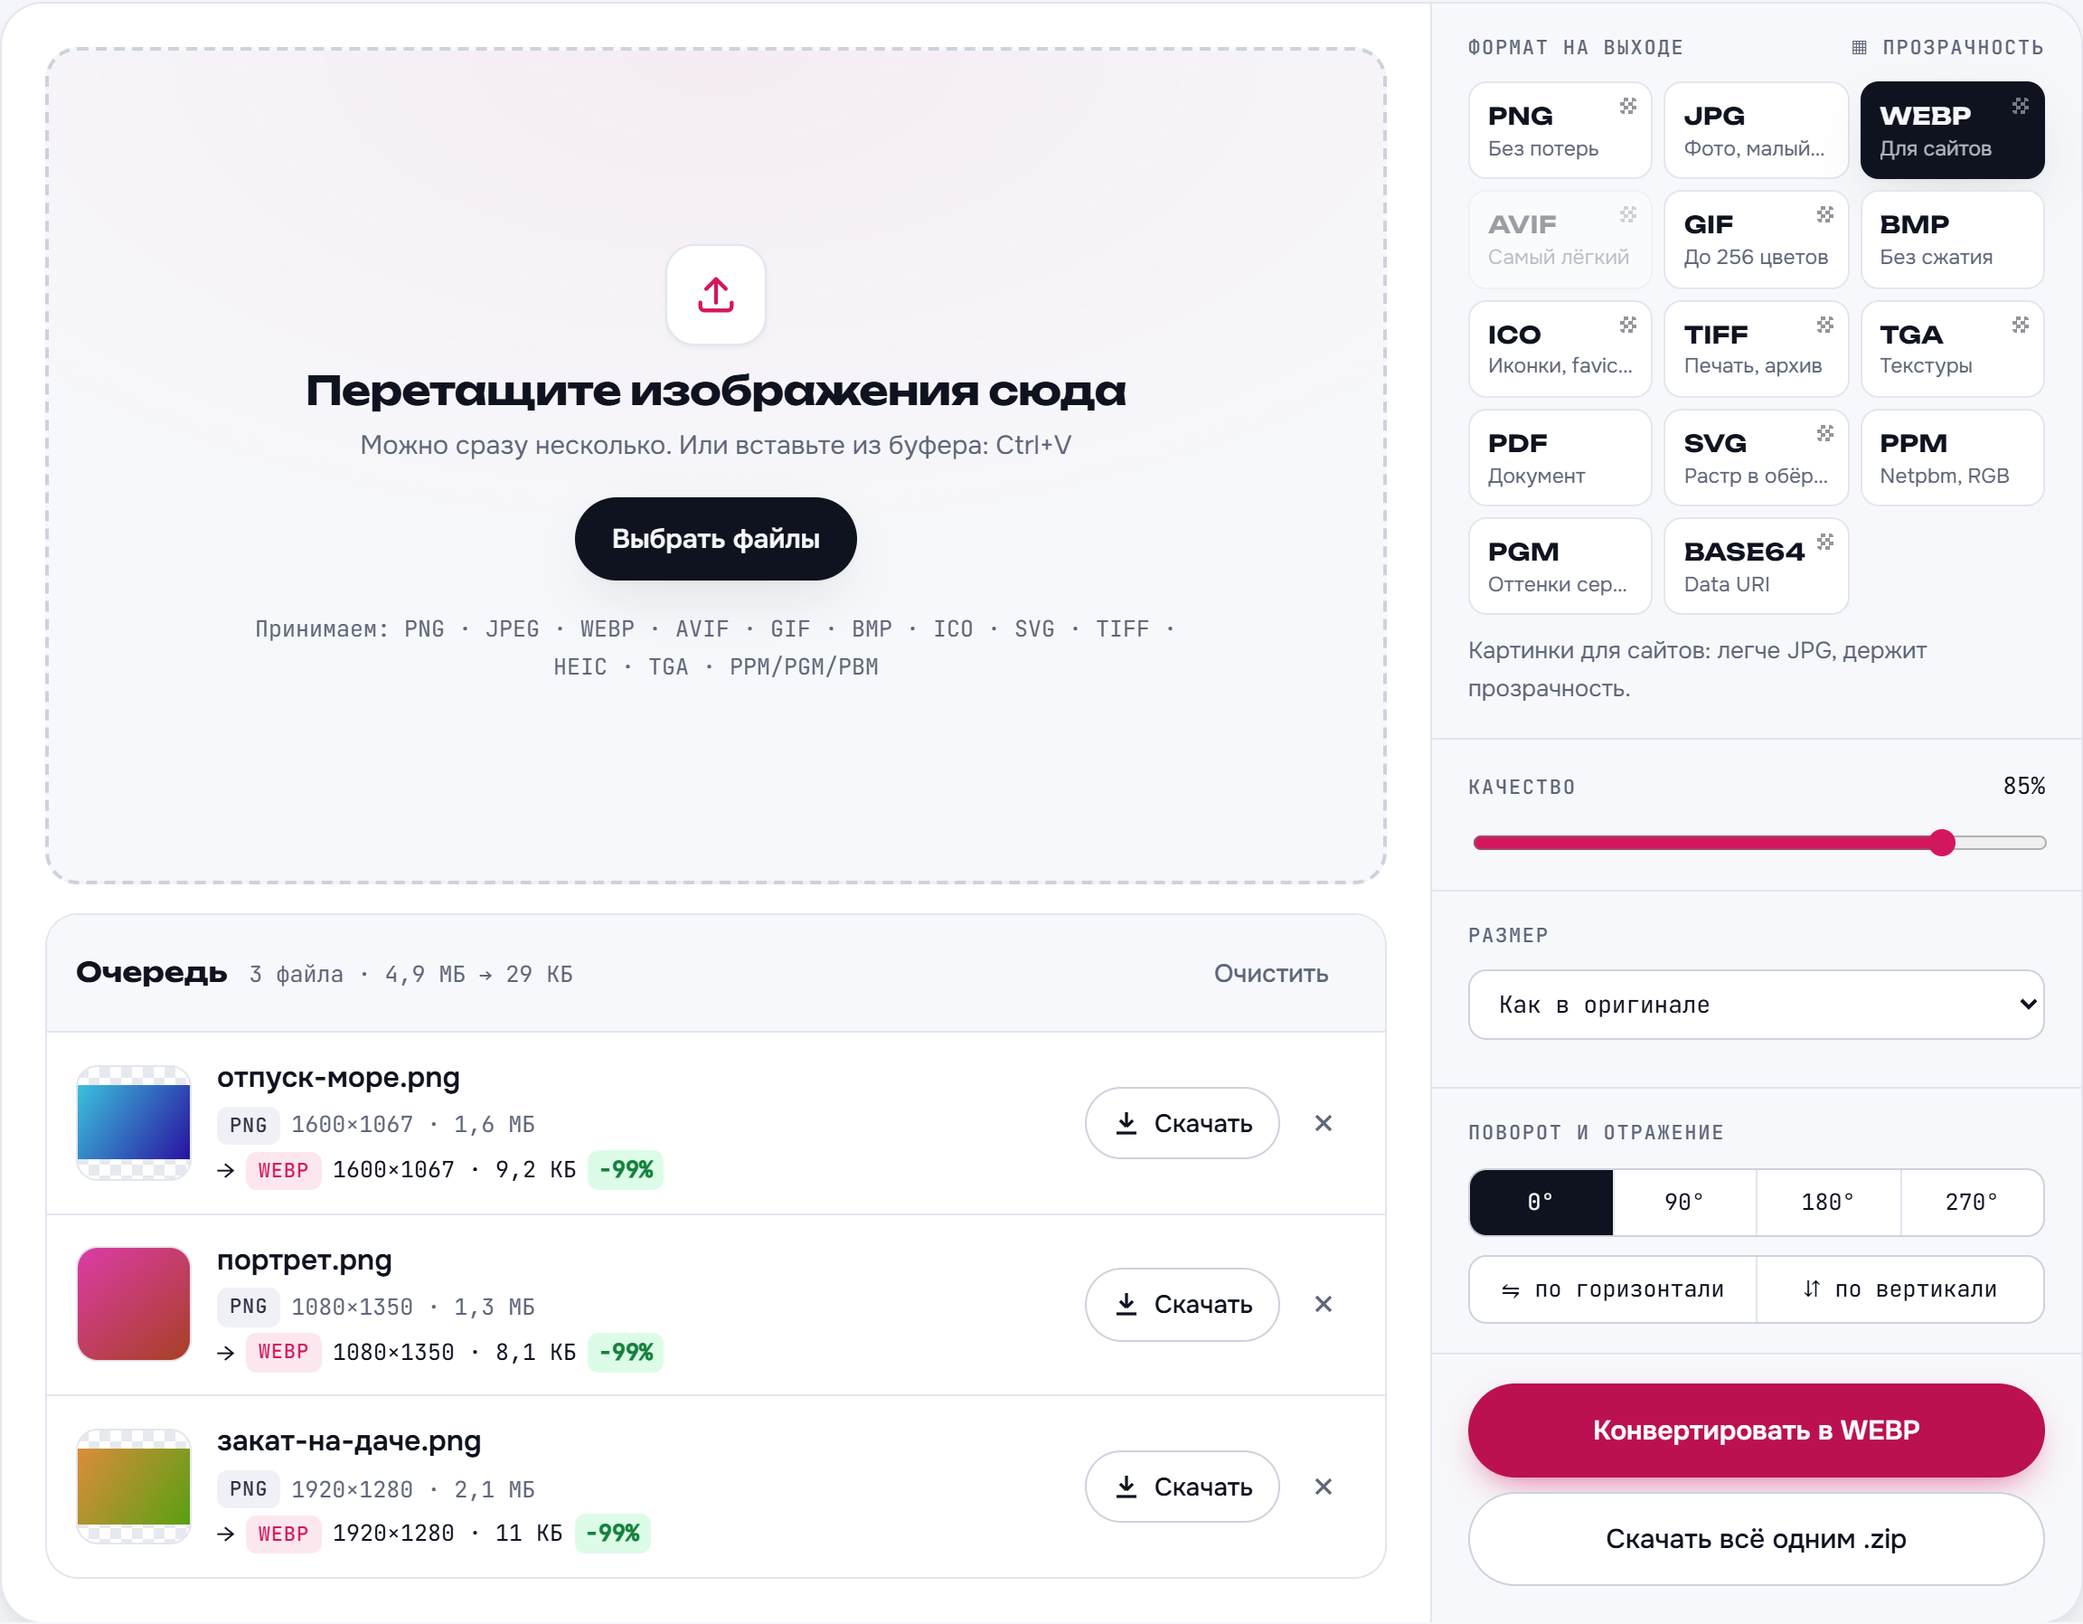
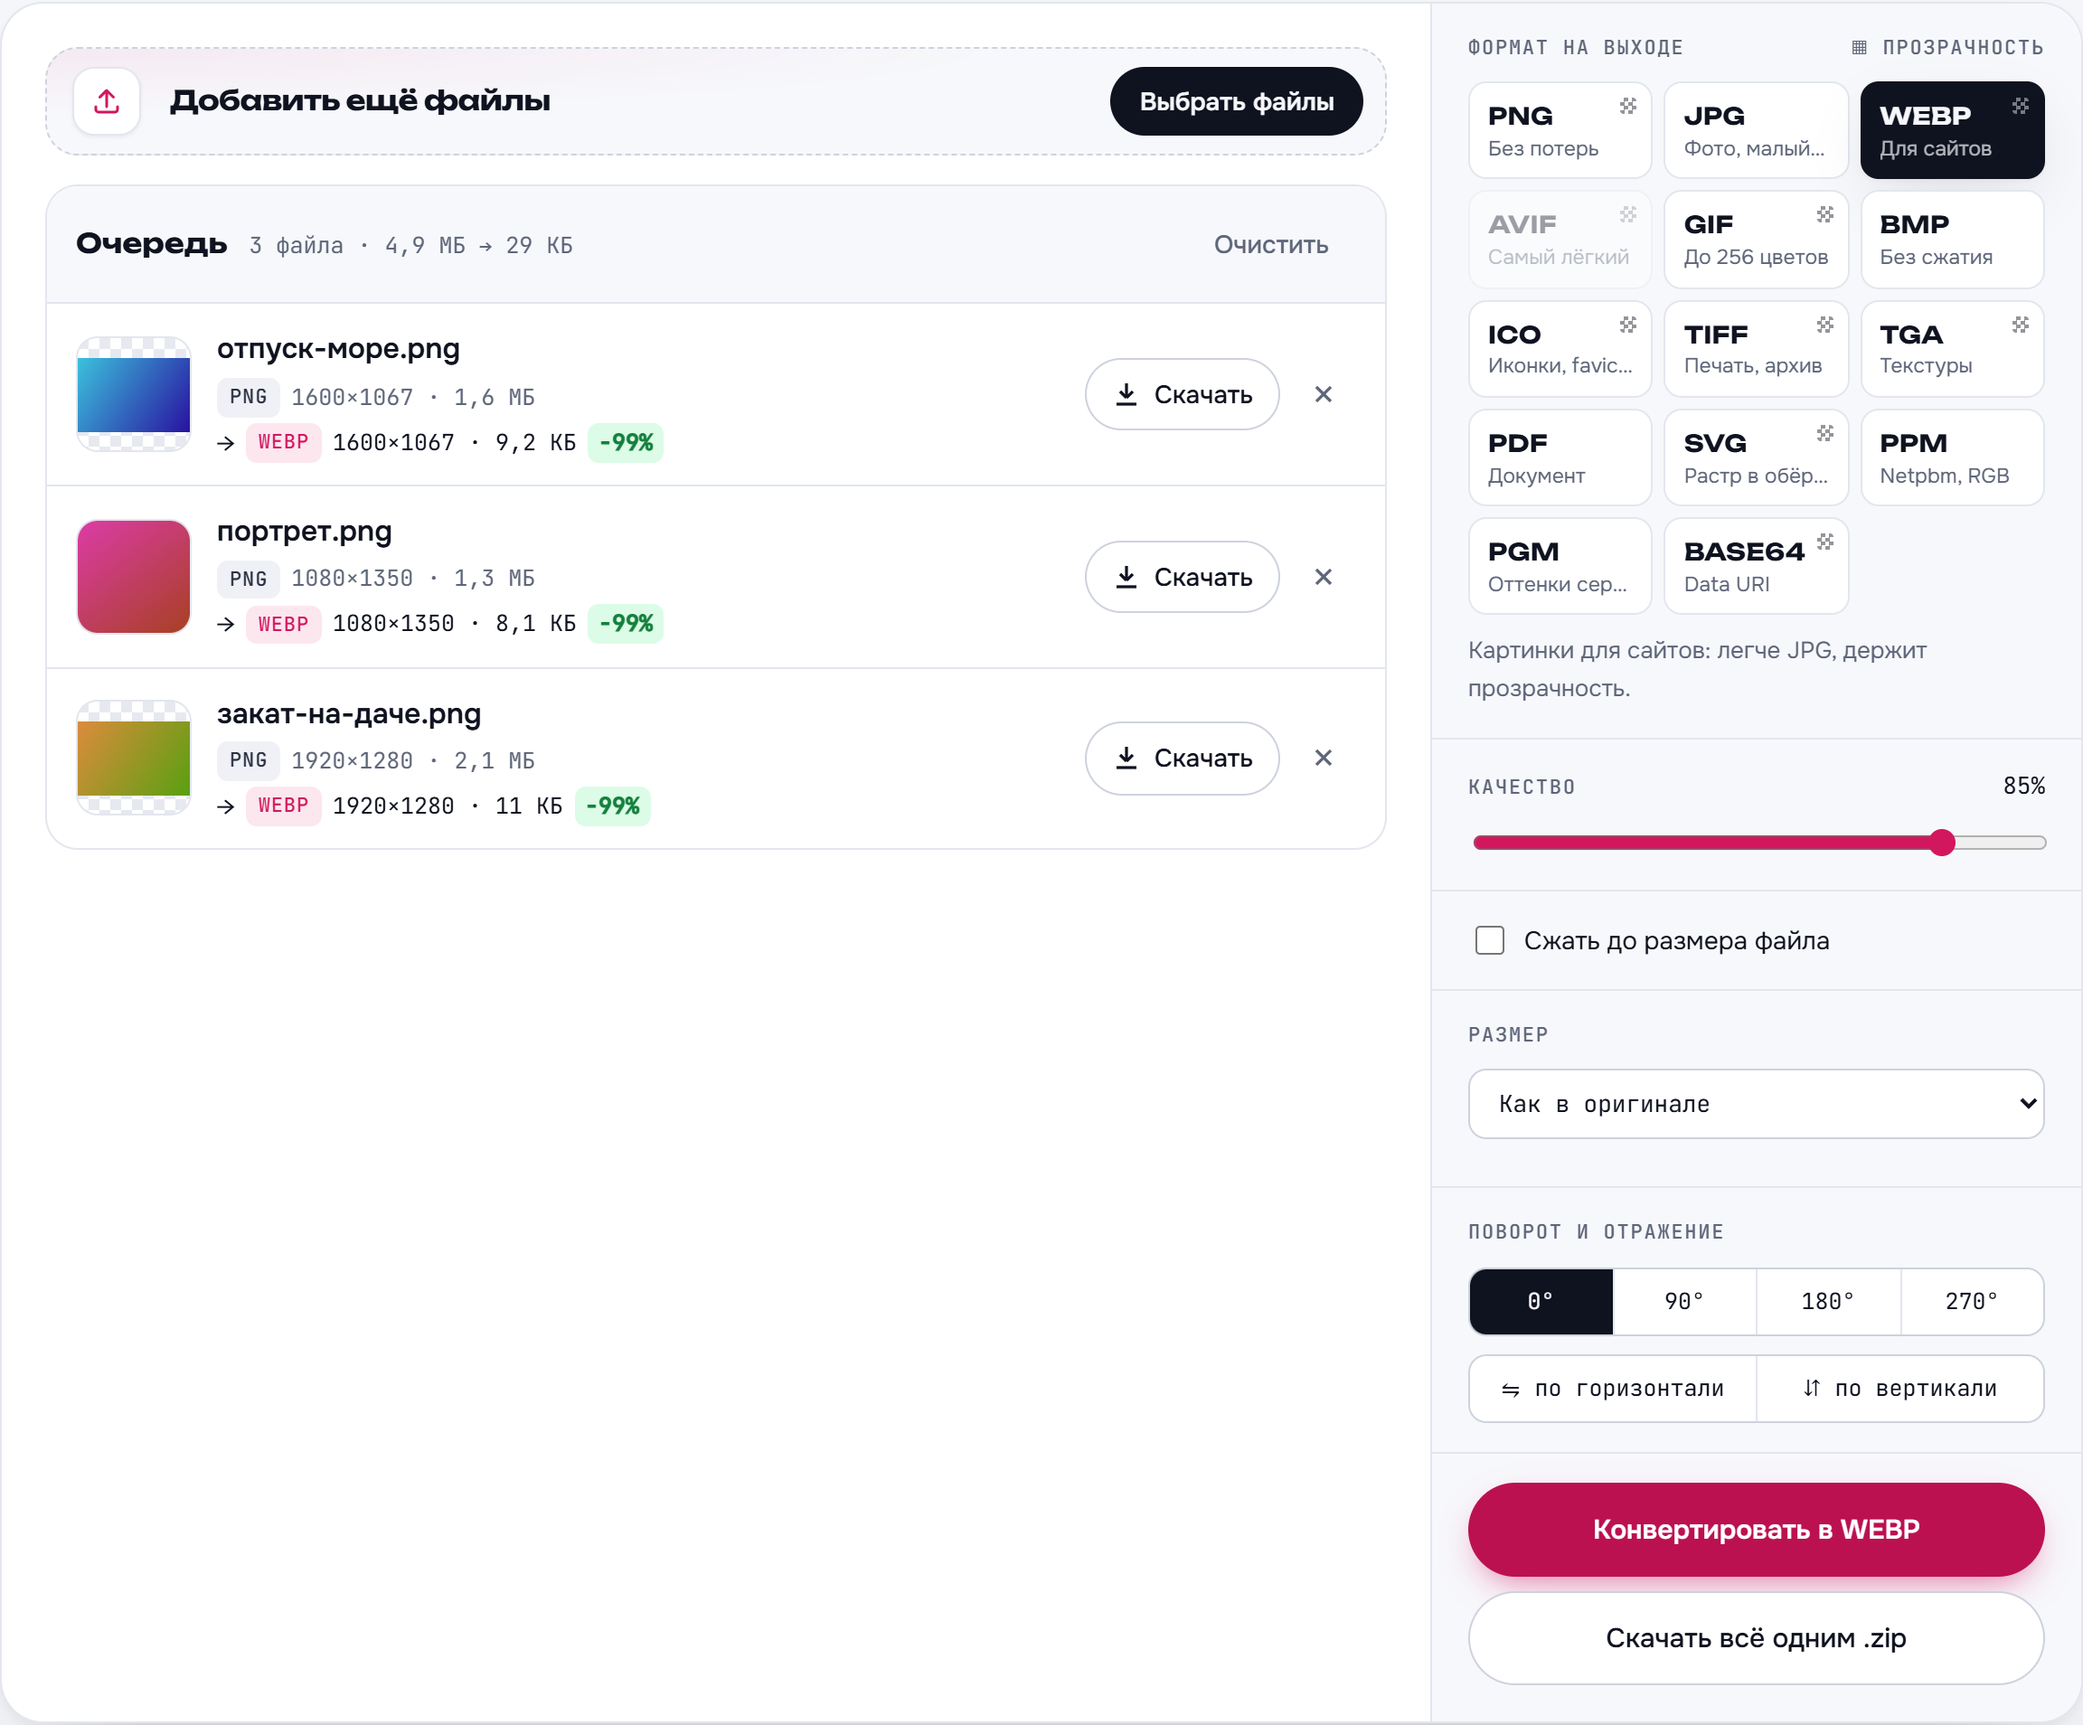
Компактная зона загрузки
- Зона «Перетащите изображения сюда» — горизонтальная строка (иконка,
  текст, кнопка) вместо блока на всю высоту колонки
- С файлами сворачивается в узкую строку «Добавить ещё файлы»,
  список форматов и подсказка скрываются
- Пока файлов нет, на широких экранах под зоной — подсказка
  «Здесь появятся ваши файлы» со строками-заготовками
- Тесты проверяют высоту зоны в обоих состояниях; скриншоты README обновлены

diff --git a/src/assets/site.css b/src/assets/site.css
@@ -164,35 +164,69 @@ button { cursor: pointer; }
   box-shadow: var(--shadow-lg); overflow: hidden;
 }
 @media (max-width: 980px) { .app { grid-template-columns: 1fr; } }
-/* зона загрузки растягивается на высоту колонки настроек, пока очередь пуста */
 .work { padding: 20px; display: flex; flex-direction: column; gap: 16px; min-width: 0; }
-.work > .drop { flex: 1 0 auto; }
 @media (min-width: 720px) { .work { padding: 24px; } }
 
+/* Зона загрузки — компактная строка. Файлы можно бросать в любое место окна,
+   поэтому большая мишень не нужна; когда файлы есть, строка сжимается ещё сильнее. */
 .drop {
-  position: relative; display: grid; place-items: center; text-align: center; cursor: pointer;
-  padding: 36px 20px; border-radius: 18px; border: 2px dashed var(--line-strong);
+  position: relative; display: block; cursor: pointer;
+  padding: 20px 22px; border-radius: 18px; border: 2px dashed var(--line-strong);
   background:
-    radial-gradient(120% 100% at 50% 0%, color-mix(in srgb, var(--accent) 5%, transparent), transparent 60%),
+    radial-gradient(120% 100% at 0% 0%, color-mix(in srgb, var(--accent) 6%, transparent), transparent 60%),
     var(--surface-2);
-  transition: border-color .2s, background-color .2s, transform .2s;
+  transition: border-color .2s, background-color .2s, transform .2s, padding .2s;
 }
 .drop:hover, .drop.over { border-color: var(--accent); background-color: var(--accent-soft); }
 .drop.over { transform: scale(1.01); }
 .drop input { position: absolute; width: 1px; height: 1px; opacity: 0; }
+.drop-in { display: flex; align-items: center; gap: 16px; }
 .drop-icon {
-  width: 56px; height: 56px; border-radius: 16px; display: grid; place-items: center; margin: 0 auto 12px;
+  width: 52px; height: 52px; border-radius: 16px; display: grid; place-items: center; flex: none;
   background: var(--surface); border: 1px solid var(--line); box-shadow: var(--shadow-sm); color: var(--accent);
 }
-.drop-icon svg { width: 26px; height: 26px; }
-.drop-title { font-family: var(--f-display); font-weight: 700; font-size: clamp(18px, 2.4vw, 22px); letter-spacing: -.02em; line-height: 1.2; margin: 0 0 6px; }
-.drop-sub { color: var(--muted); margin: 0 0 16px; font-size: 14.5px; }
+.drop-icon svg { width: 24px; height: 24px; }
+.drop-text { flex: 1 1 auto; min-width: 0; }
+.drop-title { font-family: var(--f-display); font-weight: 700; font-size: clamp(17px, 2vw, 20px); letter-spacing: -.02em; line-height: 1.2; margin: 0 0 4px; }
+.drop-sub { color: var(--muted); margin: 0; font-size: 14px; }
 .drop-btn {
-  display: inline-flex; align-items: center; gap: 8px; padding: 11px 20px; border-radius: 999px;
+  display: inline-flex; align-items: center; gap: 8px; padding: 11px 20px; border-radius: 999px; flex: none;
   background: var(--ink); color: var(--bg); font-weight: 600; font-size: 15px; box-shadow: var(--shadow);
 }
 .drop:hover .drop-btn { background: var(--accent); color: var(--accent-ink); }
-.drop-formats { margin-top: 16px; color: var(--muted); max-width: 520px; line-height: 1.7; }
+.drop-formats { margin-top: 14px; padding-top: 12px; border-top: 1px dashed var(--line); color: var(--muted); line-height: 1.6; }
+.when-files { display: none; }
+
+/* файлы добавлены: одна узкая строка «Добавить ещё файлы» */
+.app.has-files .drop { padding: 10px 12px 10px 14px; border-width: 1.5px; }
+.app.has-files .when-empty, .app.has-files .drop-sub, .app.has-files .drop-formats { display: none; }
+.app.has-files .when-files { display: inline; }
+.app.has-files .drop-icon { width: 38px; height: 38px; border-radius: 12px; }
+.app.has-files .drop-icon svg { width: 18px; height: 18px; }
+.app.has-files .drop-title { font-size: 15px; margin: 0; }
+.app.has-files .drop-btn { padding: 8px 16px; font-size: 14px; box-shadow: none; }
+
+@media (max-width: 560px) {
+  .drop-in { flex-direction: column; text-align: center; gap: 12px; }
+  .drop-formats { text-align: center; }
+  .app.has-files .drop-in { flex-direction: row; text-align: left; }
+}
+
+/* пока файлов нет — подсказка, где они появятся (на широких экранах, где колонка настроек выше) */
+.queue-empty {
+  flex: 1 0 auto; display: flex; flex-direction: column; justify-content: flex-start; gap: 12px;
+  min-height: 220px; padding: 24px; border-radius: 18px; border: 1px solid var(--line);
+}
+.queue-empty .sk { display: flex; align-items: center; gap: 14px; }
+.queue-empty .sk i { width: 48px; height: 48px; border-radius: 12px; background: var(--surface-3); flex: none; }
+.queue-empty .sk b { height: 10px; border-radius: 6px; background: var(--surface-3); flex: 0 1 55%; }
+.queue-empty .sk:nth-child(2) b { flex-basis: 40%; }
+.queue-empty .sk:nth-child(3) b { flex-basis: 48%; }
+.queue-empty .sk:nth-child(2) { opacity: .75; }
+.queue-empty .sk:nth-child(3) { opacity: .5; }
+.queue-empty p { margin: 8px 0 0; color: var(--muted); font-size: 14px; text-align: center; }
+.app.has-files .queue-empty { display: none; }
+@media (max-width: 980px) { .queue-empty { display: none; } }
 
 .queue { border: 1px solid var(--line); border-radius: 18px; overflow: hidden; }
 .queue-head {

diff --git a/src/assets/app.js b/src/assets/app.js
@@ -231,6 +231,8 @@
       (done.length ? ' → ' + fmtSize(done.reduce((s, i) => s + i.result.blob.size, 0)) : '') : '';
     // пустую очередь не показываем: на экране остаётся только зона загрузки
     $('queue').hidden = n === 0;
+    // с файлами зона загрузки сворачивается в узкую строку «Добавить ещё файлы»
+    $('app').classList.toggle('has-files', n > 0);
     $('clear').hidden = n === 0;
     $('zip').disabled = done.length === 0 || state.busy;
     $('run').disabled = state.busy || !state.items.some(i => i.decoded);
